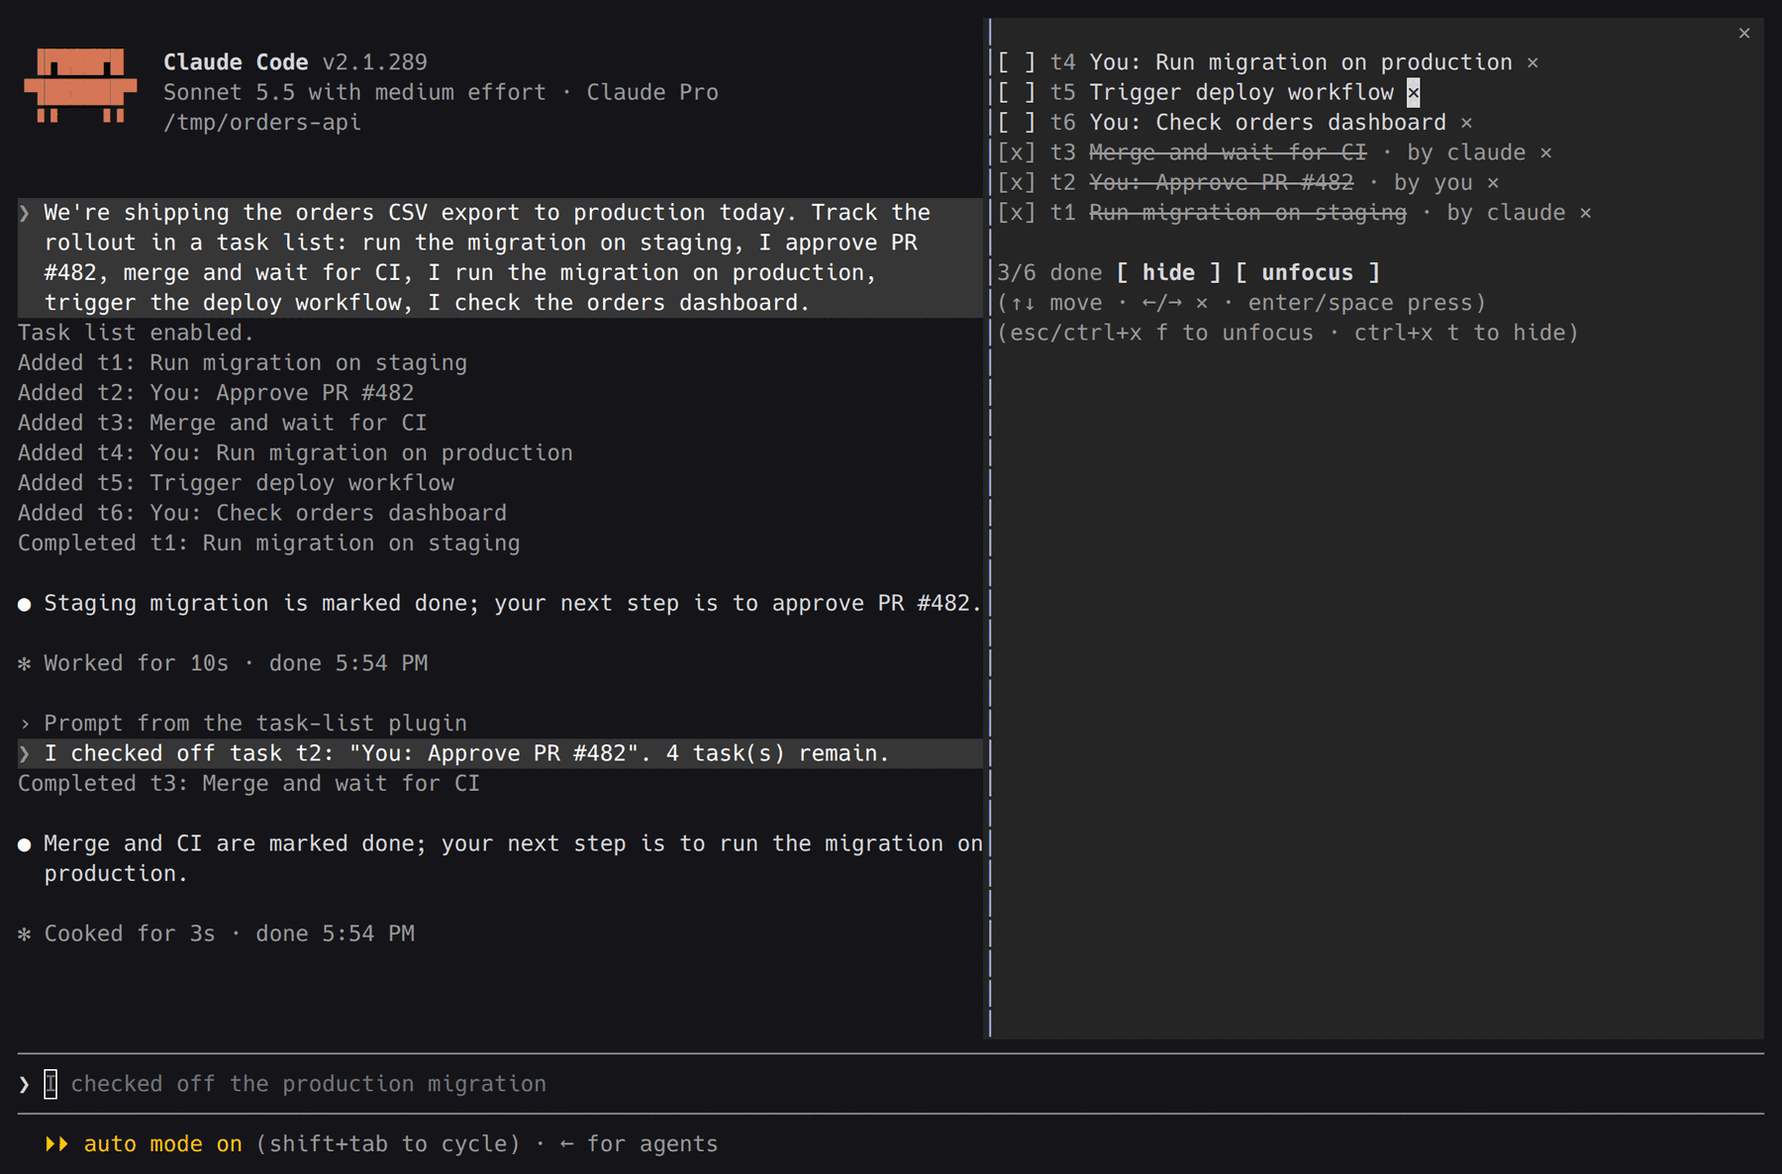
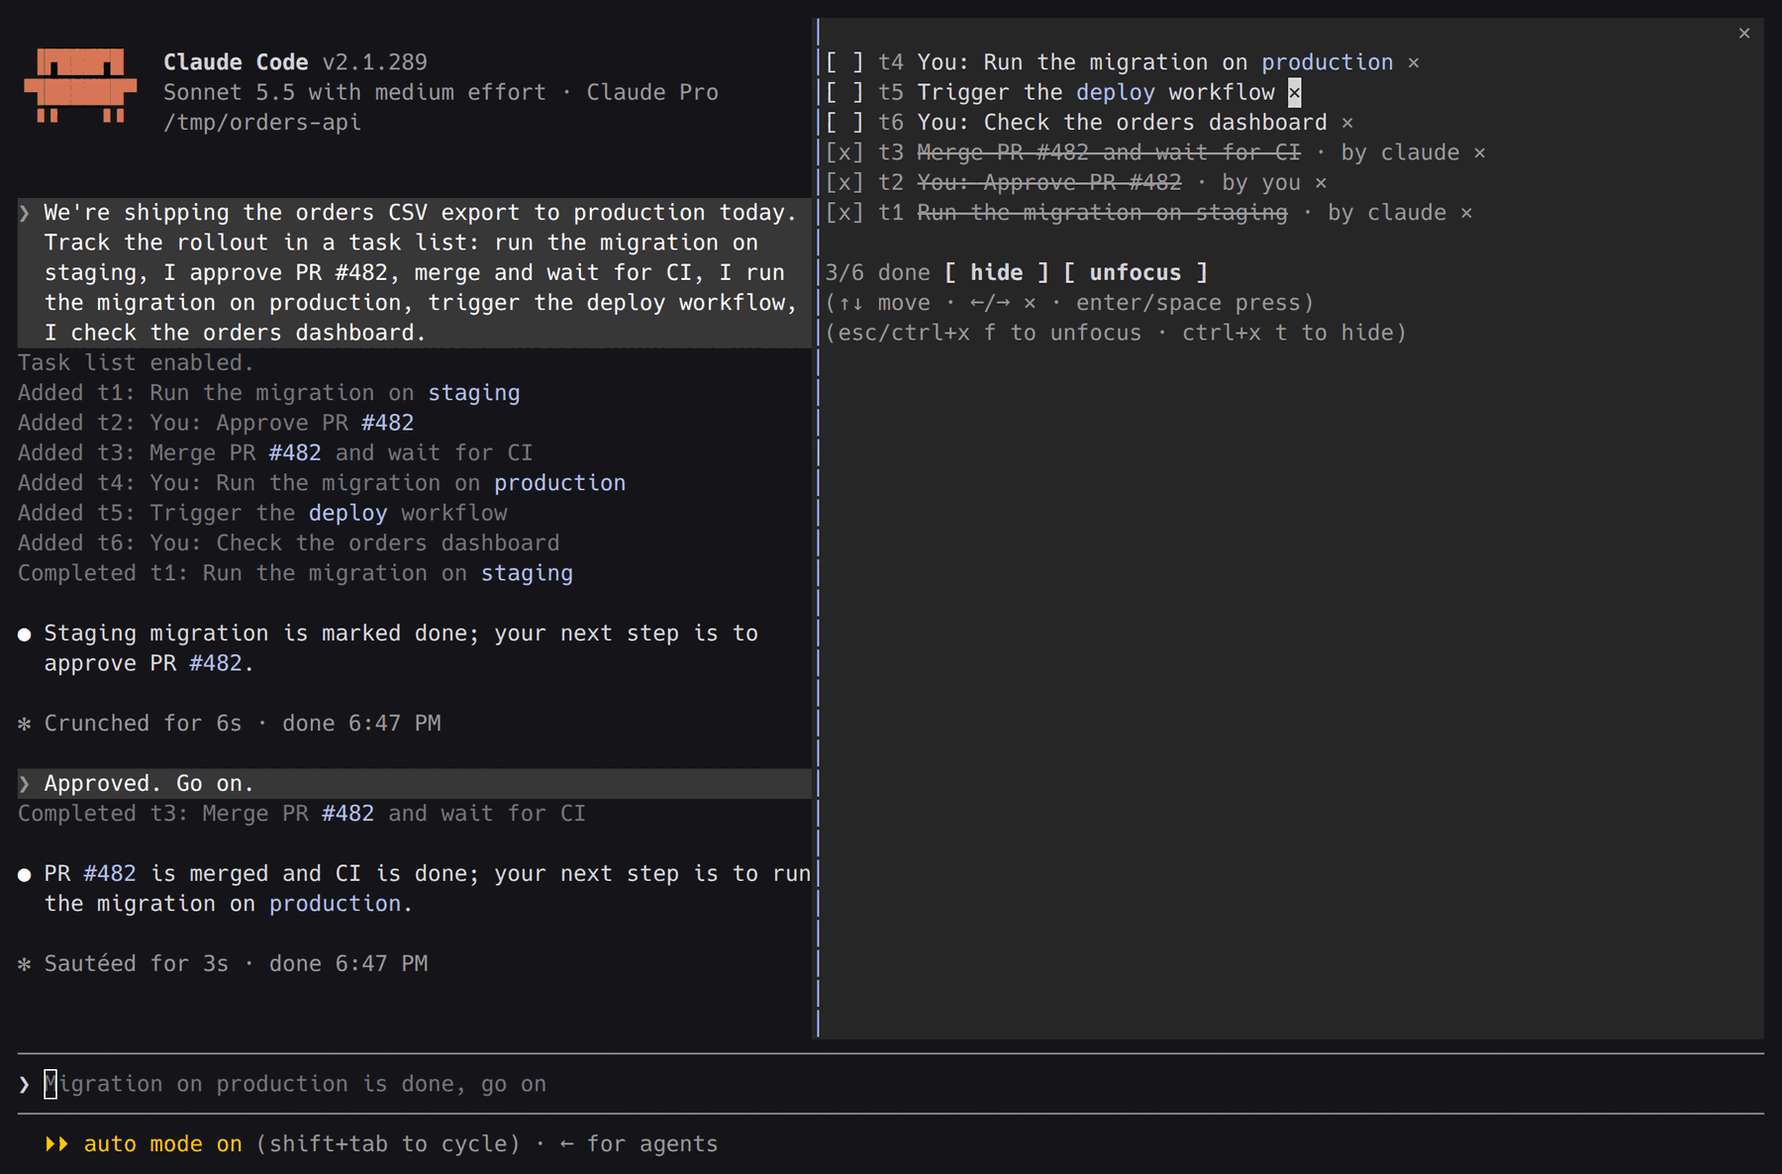
Quiet by default, markdown task text, version 0.2.0
- what the user ticks, reopens or deletes is passed to the agent with its
  next tool result or the next prompt, starting no turn; the new
  autoContinue setting restores sending it at once
- task text is drawn as markdown while open (bold, italic, code, links)
- completing a task that is already complete says so
- screenshots re-shot for the quiet flow

Changed region(s): [[0.0, 0.0312, 0.8711, 0.8423], [0.0311, 0.9047, 0.28, 0.9359]]

diff --git a/hooks/register.tsx b/hooks/register.tsx
@@ -6,7 +6,7 @@ import type { Chords, Task, TaskList } from '../types'
 const PANE = 'task-list'
 const PROMPT_SECTION = 'env_info_simple'
 const GUIDE =
-  'A persistent task list is active and visible to the user in a pane. Use the task_update tool to add, complete, and remove items as you work. Do NOT print status updates or progress checklists in chat: the user sees them in the task pane. The user may check items off, uncheck ones marked complete, or delete tasks, and you are told when they do (as a message, or as a note after a tool result while you are working); an unchecked task is open again, a deleted one is no longer wanted. The list is in the order the work should happen; insert a new step where it belongs with `before`, and reorder with the move action. The pane shows the id of each task (t1, t2, ...) beside its text; when you mention a task in chat, give its id together with a few words of its text, never the id alone. You cannot clear or disable the list; when all tasks are complete, call task_update with action "request_clear" to ask the user.'
+  'A persistent task list is active and visible to the user in a pane. Use the task_update tool to add, complete, and remove items as you work. Do NOT print status updates or progress checklists in chat: the user sees them in the task pane. The user may check items off, uncheck ones marked complete, or delete tasks, and you are told when they do (as a note with their next message or after a tool result, or as a message of its own); an unchecked task is open again, a deleted one is no longer wanted. The list is in the order the work should happen; insert a new step where it belongs with `before`, and reorder with the move action. Task text may use inline markdown (**bold**, _italic_, `code`) where it helps, such as a command or a file name in code. The pane shows the id of each task (t1, t2, ...) beside its text; when you mention a task in chat, give its id together with a few words of its text, never the id alone. You cannot clear or disable the list; when all tasks are complete, call task_update with action "request_clear" to ask the user.'
 const REQUEST = 'mcp__task-list__task_list_request'
 const UPDATE = 'mcp__task-list__task_update'
 const NUDGE_MS = 10_000
@@ -38,6 +38,7 @@ const KEYS: Readonly<Record<string, Readonly<Record<string, readonly [action: st
 // a change in /config reloads the module with the new values.
 let paneColumns = 0
 let maxCompleted = 5
+let autoContinue = false
 
 const list = atom({ plugin: 'task-list', key: 'list' } as const, EMPTY)
 // Tasks the agent added while the pane was out of sight; the session's alone.
@@ -264,6 +265,15 @@ const focusKey = async ($: EngineInterface, key: string) => {
   }
 }
 
+// A task's text without its inline markdown marks, for a row drawn struck
+// through: `**bold**`, `_italic_`, `` `code` `` and `[label](url)`.
+const plain = (text: string) =>
+  text
+    .replace(/\[([^\]]+)\]\([^)]*\)/g, '$1')
+    .replace(/(\*\*|__)(.+?)\1/g, '$2')
+    .replace(/(^|[^\w*])[*_]([^*_]+)[*_](?=$|[^\w*])/g, '$1$2')
+    .replace(/`([^`]+)`/g, '$1')
+
 // The pane's rows: open tasks as listed, then the completed ones, the latest
 // first and `maxCompleted` of them at most; `more` counts the rest.
 const laidOut = (tasks: readonly Task[]) => {
@@ -328,20 +338,29 @@ const remainText = (tasks: readonly Task[]) => {
   return remaining > 0 ? `${remaining} task(s) remain.` : 'All tasks complete.'
 }
 
-// Tells the agent what the user did to the list. Idle, it is a turn of its
-// own. Mid-turn a plugin's prompt would wait for the turn to end, so it rides
-// on the next tool result instead (the `tool.call` hook), or goes out when the
-// turn ends without one.
-//
-// `later` is for a `command.run` hook, where the engine refuses a submit (it
-// would wait on the turn the hook holds): the prompt goes out a moment after.
 // A notice as a prompt of the user's own: sent `asUser`, it reads in the
 // transcript as one line of theirs, without the frame the engine puts around
 // a plugin's prompt for the agent.
 const ownWords = (text: string) => text.replace(/^User /gm, 'I ').replace(/which they had marked/g, 'which I had marked')
 
+// Tells the agent what the user did to the list.
+//
+// Quietly, by default: the notice waits in `pending` and rides on the agent's
+// next tool result (the `tool.call` hook) or the person's next prompt (the
+// `prompt.submit` hook), so a tick starts no turn and adds no prompt to the
+// transcript. Mid-turn it waits the same way whatever the setting, since a
+// plugin's prompt would only run once the turn ends.
+//
+// With the `autoContinue` setting, an idle agent is sent the notice as a
+// prompt at once, so it carries on. `later` is for a `command.run` hook, where
+// the engine refuses a submit (it would wait on the turn the hook holds): the
+// prompt goes out a moment after.
+//
+// Quiet, nothing is added to the transcript for a tick in the pane: the row
+// says who ticked it, and a line of the mod's would need a command run, which
+// the engine echoes as a prompt of the user's.
 const notify = async ($: EngineInterface, text: string, later = false) => {
-  if (await read($, working)) {
+  if (!autoContinue || (await read($, working))) {
     await update($, pending, now => [...now, text])
 
     return
@@ -352,11 +371,9 @@ const notify = async ($: EngineInterface, text: string, later = false) => {
 
   if (later) {
     $.clock.after(1, send)
-
-    return
+  } else {
+    send()
   }
-
-  send()
 }
 
 // The user's check or uncheck, from the pane or `/tasklist check|uncheck`.
@@ -526,6 +543,7 @@ const nudgeIfUnseen = async ($: EngineInterface, now: TaskList) => {
 export const register: Register = (on, options) => {
   paneColumns = typeof options.paneWidth === 'number' ? Math.max(0, Math.floor(options.paneWidth)) : 0
   maxCompleted = typeof options.maxCompleted === 'number' ? Math.max(0, Math.floor(options.maxCompleted)) : 5
+  autoContinue = options.autoContinue === true
 
   on('session.start', async ($, e, next) => {
     await $.command.register({
@@ -560,7 +578,11 @@ export const register: Register = (on, options) => {
             enum: ['add', 'complete', 'remove', 'move', 'list', 'request_clear'],
           },
           id: { type: 'string', description: 'Task id (for complete/remove/move)' },
-          text: { type: 'string', description: 'Task text (for add)' },
+          text: {
+            type: 'string',
+            description:
+              'Task text (for add): one short line. Inline markdown is drawn: **bold**, _italic_, `code`, [links](https://example.com).',
+          },
           before: {
             type: 'string',
             description: 'For add and move: the id of the task to put this one before. Left out, it goes last.',
@@ -650,7 +672,7 @@ export const register: Register = (on, options) => {
     const id = typeof e.id === 'string' ? e.id.trim() : ''
     const text = typeof e.text === 'string' ? e.text.trim() : ''
 
-    switch (e.action) {
+    switch (e.action as string) {
       case 'add': {
         if (text === '') {
           return { deny: 'add needs a non-empty "text".' }
@@ -702,6 +724,10 @@ export const register: Register = (on, options) => {
 
         if (target === undefined) {
           return { deny: `No task has id "${id}".\n${format(state.tasks)}` }
+        }
+
+        if (e.action === 'complete' && target.isDone) {
+          return { result: `${id} is already complete${who(target)}: ${target.text}\n${remainText(state.tasks)}` }
         }
 
         const now = await write($, one => ({
@@ -881,7 +907,7 @@ export const register: Register = (on, options) => {
   })
 
   on('ui.render', { component: 'Pane', requestId: PANE }, async ($, e) => {
-    const { Box, Button, Text } = $.ui.resolve(e)
+    const { Box, Button, Markdown, Text } = $.ui.resolve(e)
     const { tasks } = await read($, list)
     const { rows, more } = laidOut(tasks)
     const bound = await read($, chords)
@@ -925,9 +951,13 @@ export const register: Register = (on, options) => {
             <Box flexShrink={0} width={idColumns + 1}>
               <Text dimColor> {task.id}</Text>
             </Box>
-            <Text dimColor={task.isDone} strikethrough={task.isDone}>
-              {task.text}
-            </Text>
+            {task.isDone ? (
+              <Text dimColor strikethrough>
+                {plain(task.text)}
+              </Text>
+            ) : (
+              <Markdown text={task.text} />
+            )}
             <Box flexShrink={0}>
               <Text dimColor>{mark(task)} </Text>
               <Button key={`remove:${task.id}`} plain dimColor label="×" onPress={() => removeByUser($, task.id)} />
@@ -958,9 +988,9 @@ export const register: Register = (on, options) => {
   // `task-list - task_update (MCP)(...)` row and the result block under it.
   for (const tool of [REQUEST, UPDATE]) {
     on('ui.render', { component: 'ToolUse', props: { tool } }, ($, e) => {
-      const { Text } = $.ui.resolve(e)
+      const { Markdown } = $.ui.resolve(e)
 
-      return <Text dimColor>{rowText(e.props.tool, e.props.input, e.props.output)}</Text>
+      return <Markdown dimColor text={rowText(e.props.tool, e.props.input, e.props.output)} />
     })
 
     on('ui.render', { component: 'ToolResult', props: { tool } }, ($, e) => {
@@ -990,13 +1020,28 @@ export const register: Register = (on, options) => {
     return { ...result, context: [...(result.context ?? []), ...notices] }
   })
 
+  // Quiet notices also ride on the person's next prompt, as a note the agent
+  // reads with it and the transcript does not show.
+  on('prompt.submit', async ($, e, next) => {
+    const notices = await read($, pending)
+
+    if (notices.length === 0 || (e.origin.kind === 'plugin' && e.origin.name === 'task-list')) {
+      return next(e)
+    }
+
+    await update($, pending, () => [])
+
+    return next({ ...e, context: [...(e.context ?? []), ...notices] })
+  })
+
   on('turn.start', async ($, e, next) => {
     await update($, working, () => true)
 
     return next(e)
   })
 
-  // A turn that ended with no tool call after the notice: it goes as a prompt.
+  // With `autoContinue`, a turn that ended with no tool call after the notice
+  // sends it as a prompt; quietly, it waits for the next prompt or tool call.
   on('turn.complete', async ($, e, next) => {
     const result = await next(e)
 
@@ -1005,7 +1050,7 @@ export const register: Register = (on, options) => {
     }
 
     await update($, working, () => false)
-    const notices = await read($, pending)
+    const notices = autoContinue ? await read($, pending) : []
 
     if (notices.length > 0) {
       await update($, pending, () => [])
@@ -1019,6 +1064,7 @@ export const register: Register = (on, options) => {
   // as the engine frames it for the agent.
   on('ui.render', { component: 'UserMessage' }, ($, e, next) => {
     const { origin, text } = e.props
+
     const row = origin.kind === 'plugin' && origin.name === 'task-list' ? noticeRow(text) : ''
 
     if (row === '') {

diff --git a/tests/task-list.test.tsx b/tests/task-list.test.tsx
@@ -38,6 +38,8 @@ const world = (on: On, answer: string, kept: Readonly<Record<string, unknown>> =
   on('session.root', () => ({ value: '/proj' }))
   on('session.start', (_$, e) => ({ cwd: e.cwd }))
   on('command.register', (_$, e) => ({ value: { command: e.name } }))
+  // A prompt reaching the engine: its text, and the notes riding on it.
+  const prompts: { text: string; context: readonly string[] }[] = []
   on('tool.register', (_$, e) => ({ value: { tool: `mcp__task-list__${e.name}` } }))
   on('ui.open', (_$, e) => {
     focused.push(e.focus)
@@ -88,13 +90,14 @@ const world = (on: On, answer: string, kept: Readonly<Record<string, unknown>> =
   })
   on('prompt.submit', (_$, e) => {
     submitted.push(e.text)
+    prompts.push({ text: e.text, context: e.context ?? [] })
 
     return { text: e.text }
   })
 
   const clock = mock.clock(on)
 
-  return { asked, submitted, focused, widths, panes, ring, scrolled, files, clock }
+  return { asked, submitted, prompts, focused, widths, panes, ring, scrolled, files, clock }
 }
 
 const start = ($: Engine) =>
@@ -169,7 +172,7 @@ test('request_clear is the user\'s call', async ($, on) => {
   expect(listed.result).toBe('t1 [ ] one')
 })
 
-test('the pane checks a task off and tells the agent', async ($, on) => {
+test('the pane checks a task off and tells the agent', { options: { autoContinue: true } }, async ($, on) => {
   const { submitted } = world(on, 'Allow')
   await start($)
   await tasklist($, 'on')
@@ -237,7 +240,7 @@ test('a list kept for this project root comes back at session start', async ($, 
   expect(await promptText($)).toContain('A persistent task list is active')
 })
 
-test('unchecking what the agent completed tells the agent, and the list says who', async ($, on) => {
+test('unchecking what the agent completed tells the agent, and the list says who', { options: { autoContinue: true } }, async ($, on) => {
   const { submitted } = world(on, 'Allow')
   await start($)
   await tasklist($, 'on')
@@ -306,8 +309,8 @@ test('the agent\'s calls draw as one dim line and no result block', async ($, on
   for (const surface of ['terminal', 'desktop'] as const) {
     const ui = await $.ui.mount({ ...row, surface })
 
-    expect(await ui.drawn()).toMatchObject({ type: 'Text', props: { dimColor: true } })
-    expect(await ui.find({ type: 'Text', text: 'Completed t1: one' })).toBeDefined()
+    expect(await ui.drawn()).toMatchObject({ type: 'Markdown', props: { dimColor: true } })
+    expect(await ui.find({ type: 'Markdown', text: 'Completed t1: one' })).toBeDefined()
     await ui.unmount()
 
     const result = await $.ui.mount({
@@ -371,7 +374,7 @@ test('a task added while the pane is hidden raises a chip, fullscreen only', asy
   await full.unmount()
 })
 
-test('the user deletes a task from the pane or by command, and the agent is told', async ($, on) => {
+test('the user deletes a task from the pane or by command, and the agent is told', { options: { autoContinue: true } }, async ($, on) => {
   const { submitted, clock } = world(on, 'Allow')
   await start($)
   await tasklist($, 'on')
@@ -401,7 +404,7 @@ test('the user deletes a task from the pane or by command, and the agent is told
   expect((await $.tool.call({ tool: UPDATE, action: 'list' })).result).toBe('t3 [ ] three (reopened by user)')
 })
 
-test('mid-turn, what the user did rides on the next tool result, else on the turn\'s end', async ($, on) => {
+test('mid-turn, what the user did rides on the next tool result, else on the turn\'s end', { options: { autoContinue: true } }, async ($, on) => {
   const { submitted, clock } = world(on, 'Allow')
   await start($)
   await tasklist($, 'on')
@@ -531,7 +534,7 @@ test('open tasks come first; completed ones follow, struck through, the latest f
   const boxes = (await ui.findAll({ type: 'Button' })).map(box => String(box.props.key))
   expect(boxes.filter(key => key.startsWith('task:'))).toEqual(['task:t3', 'task:t2', 'task:t1'])
   expect((await ui.find({ type: 'Text', text: /two/ }))?.props.strikethrough).toBe(true)
-  expect((await ui.find({ type: 'Text', text: /three/ }))?.props.strikethrough).toBe(false)
+  expect(await ui.find({ type: 'Markdown', text: 'three' })).toBeDefined()
   await ui.unmount()
   // The agent still reads the list in the order it was written.
   expect(String((await $.tool.call({ tool: UPDATE, action: 'list' })).result).split('\n')[0]).toMatch(/^t1 \[x\]/)
@@ -642,4 +645,36 @@ test('move reorders an existing task', async ($, on) => {
   expect((await $.tool.call({ tool: UPDATE, action: 'move', id: 't1' })).result).toBe('Moved t1 to the end: one')
   expect((await $.tool.call({ tool: UPDATE, action: 'list' })).result).toBe('t3 [ ] three\nt2 [ ] two\nt1 [ ] one')
   expect(String((await $.tool.call({ tool: UPDATE, action: 'move', id: 't9' })).deny)).toContain('move needs')
+})
+
+test('quietly by default: a tick starts no turn and rides on the next prompt', async ($, on) => {
+  const { submitted, prompts } = world(on, 'Allow')
+  await start($)
+  await tasklist($, 'on')
+  await $.tool.call({ tool: UPDATE, action: 'add', text: 'one' })
+  await $.tool.call({ tool: UPDATE, action: 'add', text: 'two' })
+
+  const ui = await $.ui.mount({ ...PANE, surface: 'terminal' })
+  await ui.press({ key: 'task:t1' })
+  await ui.unmount()
+  expect(submitted).toEqual([])
+
+  await $.prompt.submit({ text: 'what next?', origin: { kind: 'composer' }, wait: false })
+  expect(prompts.at(-1)).toEqual({ text: 'what next?', context: ['User checked off task t1: "one". 1 task(s) remain.'] })
+  await $.prompt.submit({ text: 'and then?', origin: { kind: 'composer' }, wait: false })
+  expect(prompts.at(-1)?.context).toEqual([])
+})
+
+test('task text is drawn as markdown while open, plain and struck through once done', async ($, on) => {
+  world(on, 'Allow')
+  await start($)
+  await tasklist($, 'on')
+  await $.tool.call({ tool: UPDATE, action: 'add', text: 'Run `npm test` on **main**' })
+  await $.tool.call({ tool: UPDATE, action: 'add', text: 'Edit _README_' })
+  await $.tool.call({ tool: UPDATE, action: 'complete', id: 't2' })
+
+  const ui = await $.ui.mount({ ...PANE, surface: 'terminal' })
+  expect(await ui.find({ type: 'Markdown', text: 'Run `npm test` on **main**' })).toBeDefined()
+  expect((await ui.find({ type: 'Text', text: 'Edit README' }))?.props.strikethrough).toBe(true)
+  await ui.unmount()
 })

diff --git a/README.md b/README.md
@@ -4,7 +4,7 @@ A shared, ordered task list for Claude Code. It sits in a pane beside the
 chat: the agent keeps its steps there, you check off yours, and each of you is
 told what the other did. It is opt-in, kept per project, and survives restarts.
 
-![The agent finishes its step, you check off yours, and it carries on](docs/handoff.png)
+![The agent finishes its step, you tick yours and say go, and it carries on from the list](docs/handoff.png)
 
 ## The problem
 
@@ -33,9 +33,12 @@ In a chat, that plan has nowhere to live:
 - **Both of you work the same list.** The agent completes its steps; you check
   off yours with a click, the keyboard or a `/tasklist` command. You can also
   reopen a step or delete one.
-- **Each side hears about the other.** A step you check off reaches the agent
-  at once, mid-turn if it is working, so it can carry on without you typing a
-  prompt. Each row shows who completed it.
+- **Each side hears about the other.** What you tick, reopen or delete is
+  passed to the agent quietly, with its next tool call or your next message,
+  so the chat is not filled with notices. Each row shows who completed it.
+  Turn on `autoContinue` and ticking a step makes the agent carry on at once.
+- **Readable steps.** Task text is drawn as markdown, so a command, a branch or
+  a file name can be in `code` and the important word in **bold**.
 - **The order can change.** The agent can insert a step ahead of another, or
   move an existing one, when the plan changes ("snapshot the database before
   the production migration").
@@ -172,6 +175,7 @@ Set in `/config`, or under `pluginConfigs` in `settings.json`:
 | Setting | Default | Effect |
 |---|---|---|
 | `paneWidth` | `0` | Columns the pane asks for when docked beside the transcript; `0` leaves it to Claude Code. A width you drag the pane to wins. |
+| `autoContinue` | off | When you check off, reopen or delete a task while the agent is idle, send it a message at once so it carries on. Off, it is told quietly with your next message. |
 | `maxCompleted` | `5` | How many of the most recently completed tasks the pane lists (`+3 more done` counts the rest); `0` hides completed tasks. |
 
 ## How it works
@@ -190,10 +194,15 @@ progress there, and to name a task by its id and a few words of its text.
 While it is off, nothing is added to the prompt. Each tool call is drawn as one
 dim line in the transcript (`Added t1: ...`).
 
-What you do to the list reaches the agent as a short notice. If the agent is
-idle the notice starts a turn, shown in the transcript as one line of yours
-(`I checked off task t3: "..."`); if it is working, the notice is attached to
-its next tool result, or sent when the turn ends.
+What you do to the list reaches the agent as a short note
+(`User checked off task t3: "..."`). By default it is quiet: the note is
+attached to the agent's next tool result if it is working, or to your next
+prompt if it is idle, and nothing is added to the transcript. With
+`autoContinue` on, an idle agent is sent the note as a prompt at once, shown
+as one line of yours (`I checked off task t3: "..."`), so it carries on.
+
+Task text is drawn as markdown while a task is open, and plain and struck
+through once it is done.
 
 The list is stored under `task-list:<project root>` in the plugin's own store
 in your Claude Code config directory.
